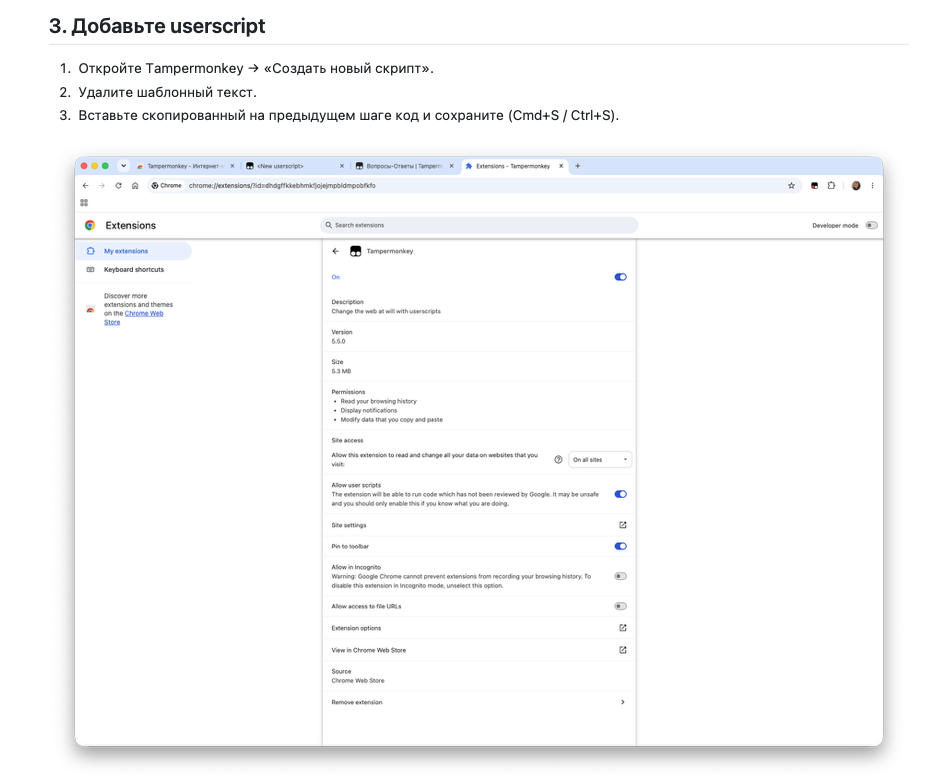
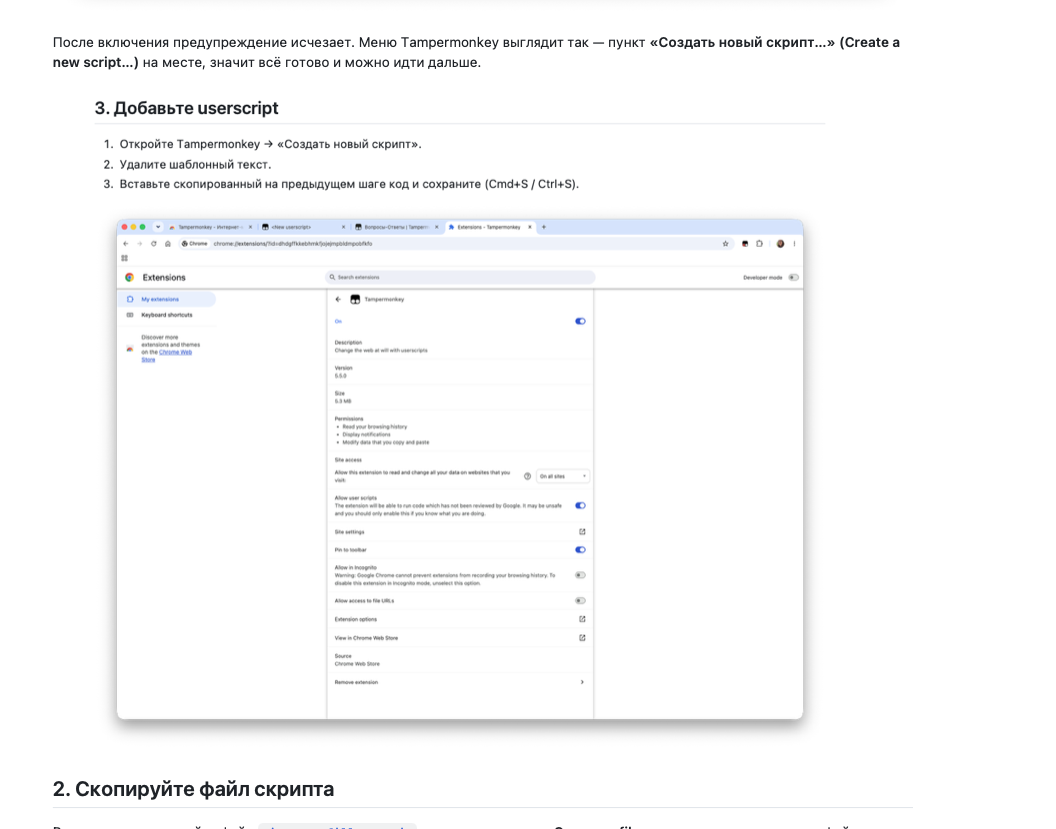
SETUP: чистый кадр меню

diff --git a/SETUP.md b/SETUP.md
@@ -78,7 +78,7 @@ Chrome не даст расширению запускать userscript'ы.
 
 ![Скрипт сохранён и включён](img/setup-07b-editor-saved.png)
 
-4. Откройте [страницу записи](https://icp.administracionelectronica.gob.es/icpplustieb/citar?p=8)
+1. Откройте [страницу записи](https://icp.administracionelectronica.gob.es/icpplustieb/citar?p=8)
    на сайте администрации. Сверху справа появится панель Cita Por Favor.
 
 ![Страница записи с панелью Cita Por Favor](img/setup-10-panel-appeared.png)
@@ -99,15 +99,15 @@ Chrome не даст расширению запускать userscript'ы.
 
 Основные элементы панели:
 
-- **«Запустить проверку»** — запускает ритмичную проверку по заданным
+* **«Запустить проверку»** — запускает ритмичную проверку по заданным
   интервалам. По умолчанию стоят рекомендованные интервалы, но их можно
   менять.
-- **«Форсаж»** — режим, который игнорирует интервалы и проверяет ситы очень
+* **«Форсаж»** — режим, который игнорирует интервалы и проверяет ситы очень
   быстро (от 10 секунд). Это ручной инструмент на случай подозрения, что
   ситы появились прямо сейчас; не держите его включённым постоянно.
-- **«Проверить голосовое оповещение»** — нужна, если вы решите включить
+* **«Проверить голосовое оповещение»** — нужна, если вы решите включить
   голосовые уведомления из следующего раздела.
-- **Журнал** — сводка за день: сколько было проверок и чем каждая закончилась.
+* **Журнал** — сводка за день: сколько было проверок и чем каждая закончилась.
 
 Не запускайте одну и ту же проверку одновременно в нескольких вкладках или
 на нескольких компьютерах.
